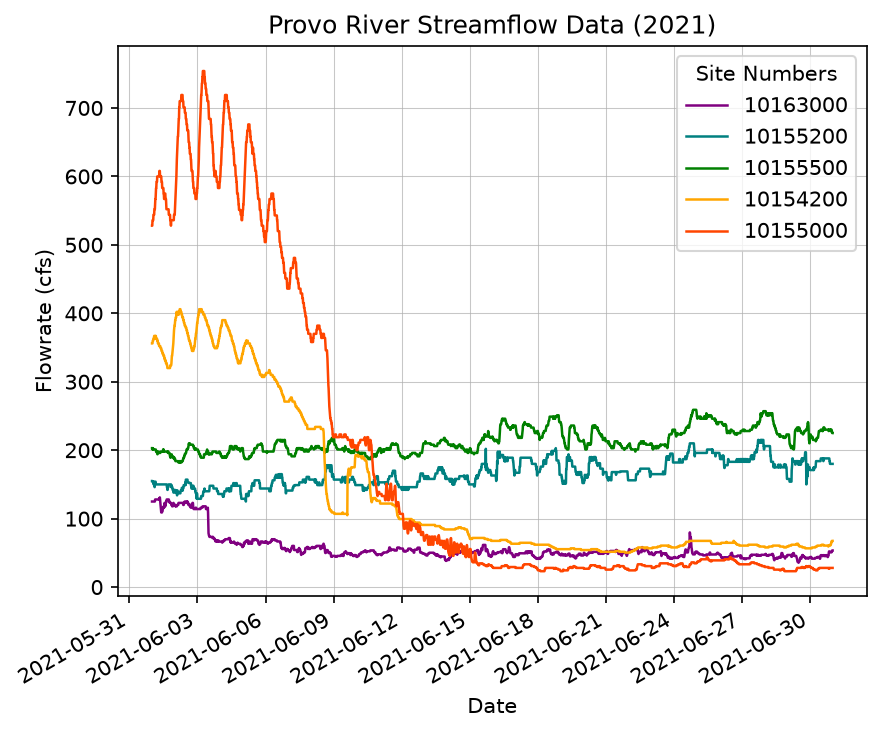
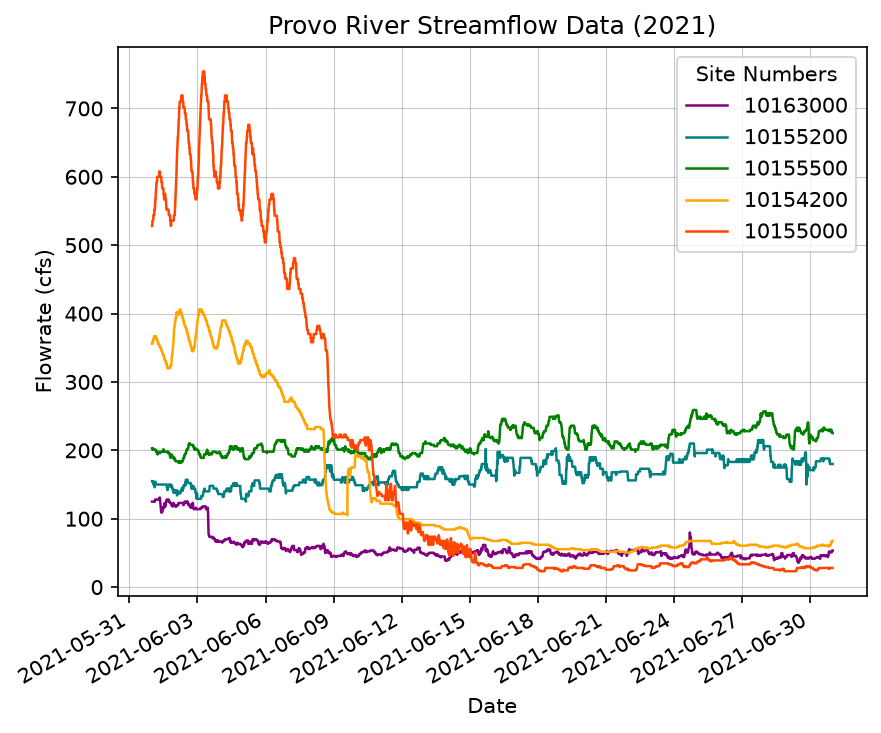
Add threshold report

diff --git a/streamflow.py b/streamflow.py
@@ -78,3 +78,12 @@ if __name__ == "__main__":
     plot_streamflow(dates, flows, sites)
     summarize(dates, flows, sites)
 
+    threshold = float(input("Enter a flow threshold in cfs: "))
+
+    print("\nHours above threshold:")
+    # Each reading represents 15 minutes, or 0.25 hours.
+    for column, site in enumerate(sites):
+        reading_count = np.sum(flows[:, column] > threshold)
+        hours_above = reading_count * 0.25
+        print(f"{site}: {hours_above:.2f} hours")
+
